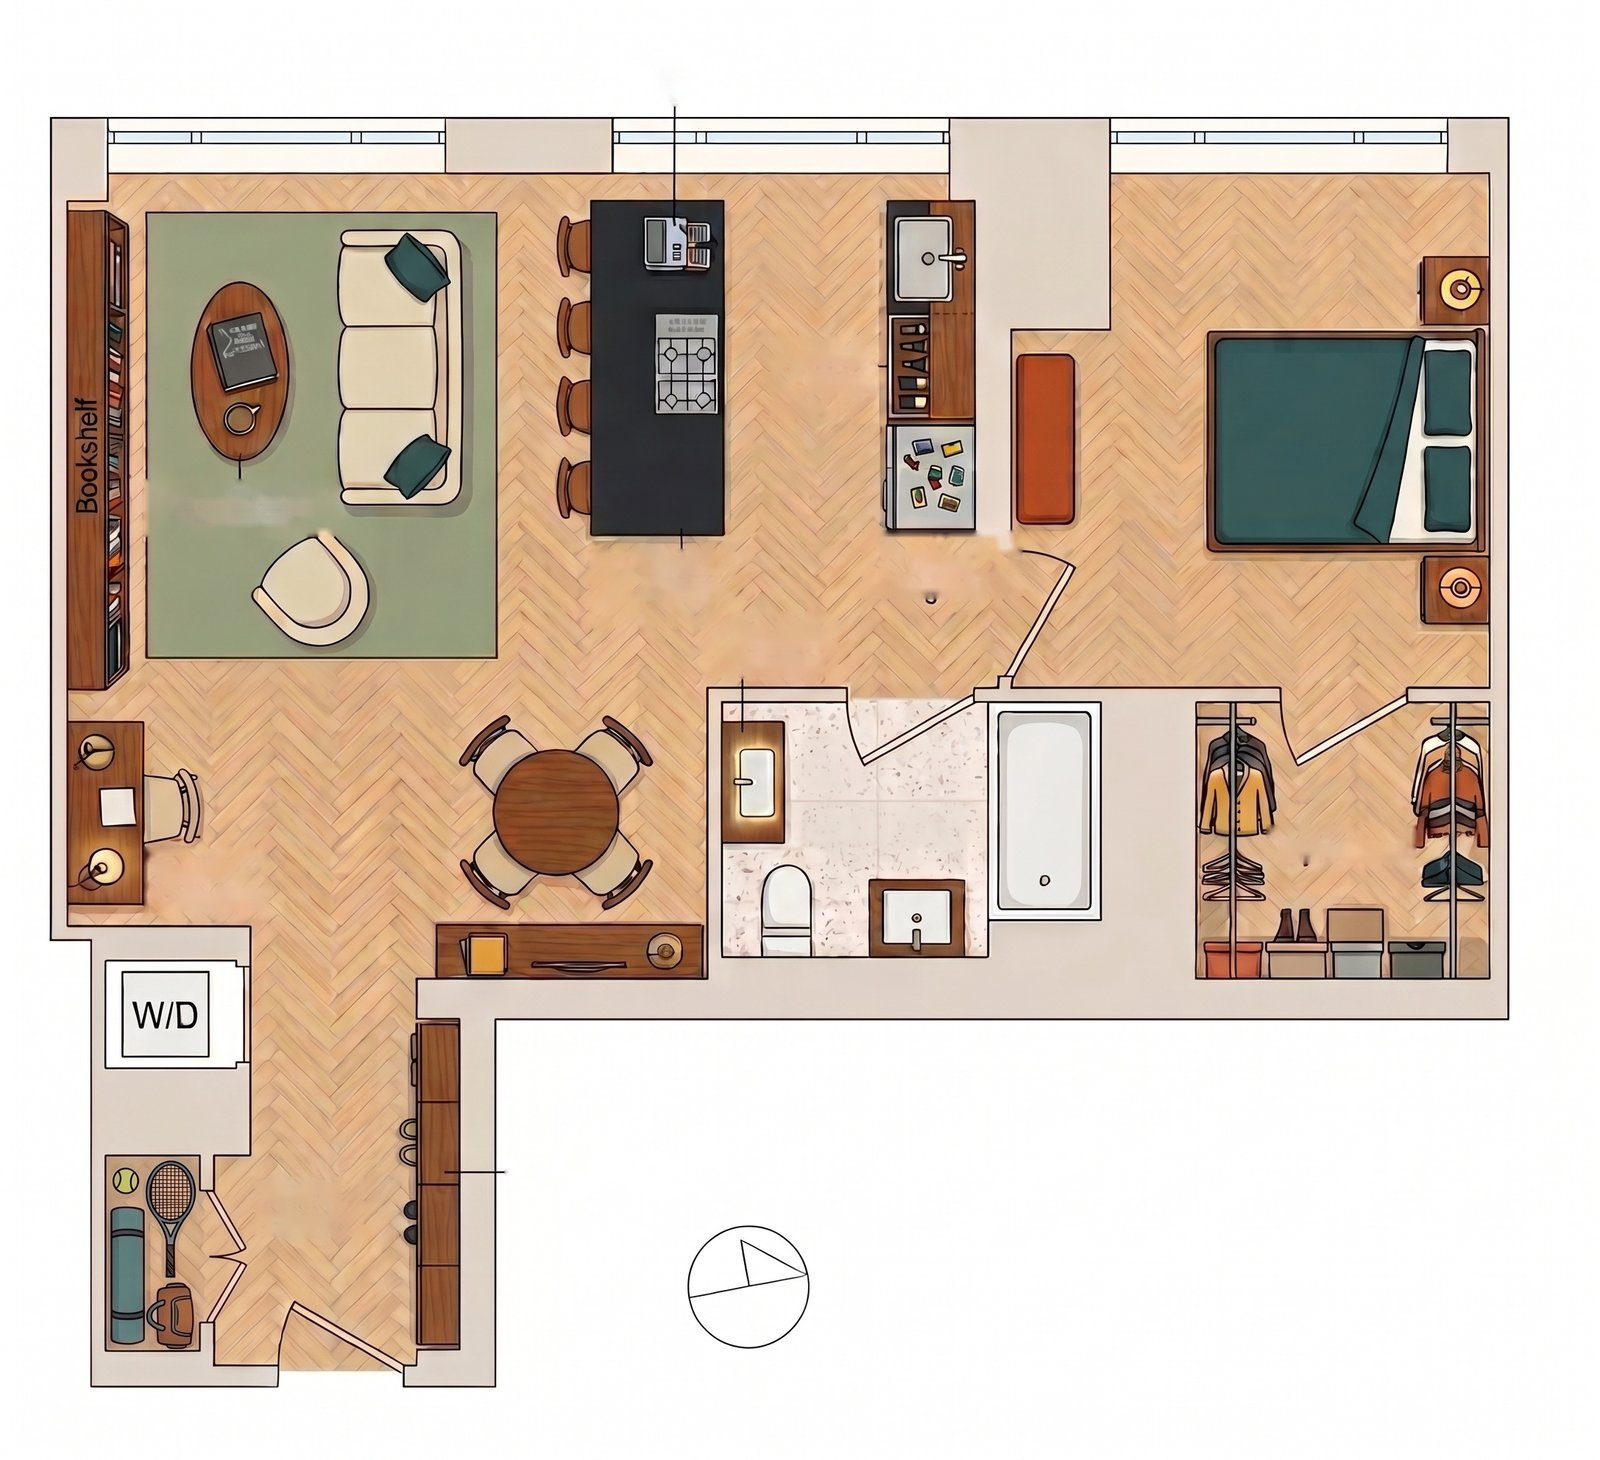
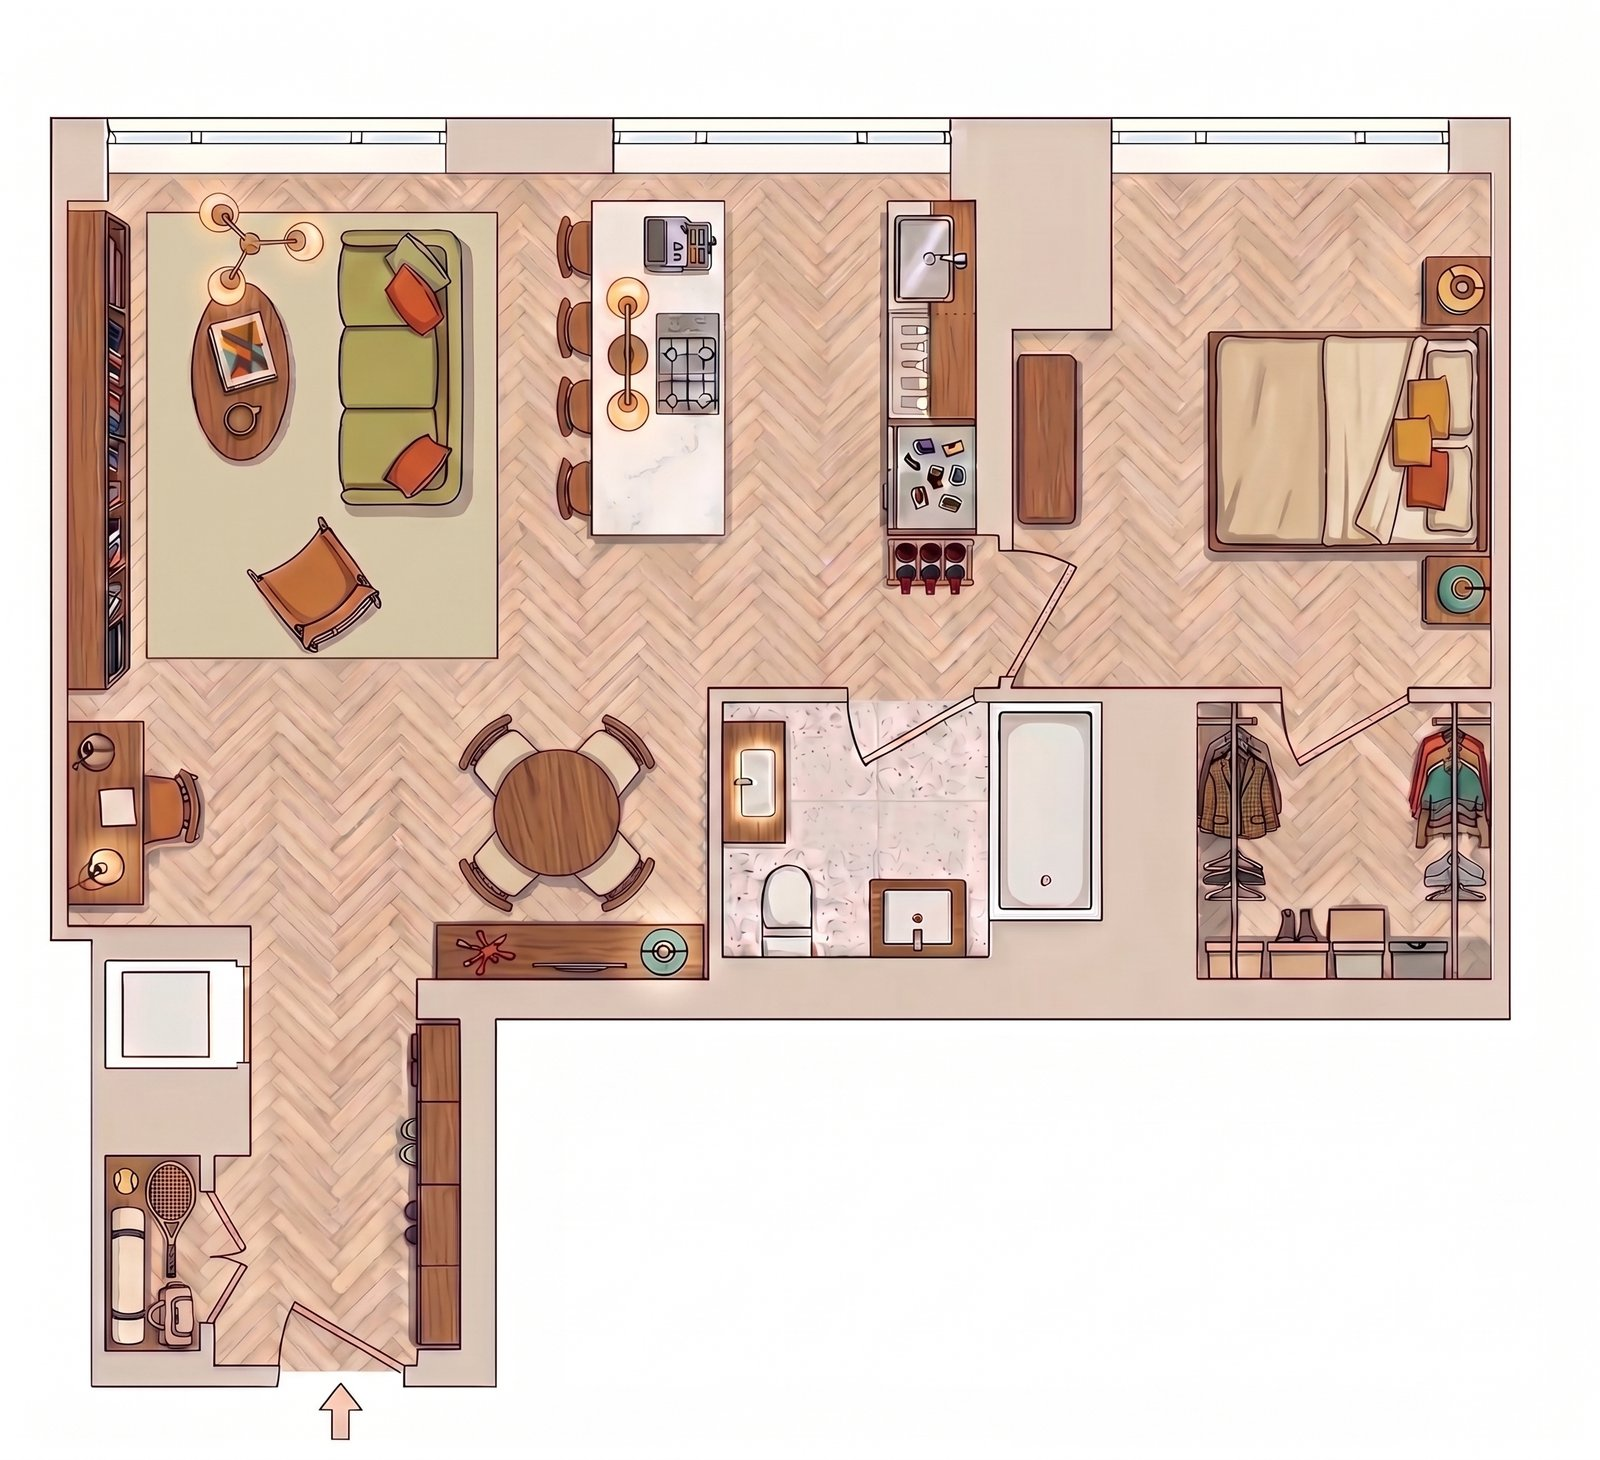
v2 preview: swap to new unlabeled floor plan illustration
New image has no text at all. Hotspot anchors re-measured against the
actual furniture icons (positions shifted slightly from the prior
render, e.g. espresso machine, wine rack, vanity).

diff --git a/src/components/FloorPlanLanding.tsx b/src/components/FloorPlanLanding.tsx
@@ -10,15 +10,15 @@ interface Hotspot {
   details: string;
 }
 
-// Positions are percentages matching label locations in
-// /public/floorplan-illustrated.jpg (2174x1984, illustrated apartment with
-// labels removed -- anchors sit exactly where the text used to be).
-// Re-measure if you swap the image.
+// Positions are percentages anchored to the actual furniture icons in
+// /public/floorplan-illustrated.jpg (2174x1984, unlabeled illustration).
+// Re-measure if you swap the image -- icon positions shift between
+// image generations even at the same aspect ratio.
 const HOTSPOTS: Hotspot[] = [
   {
     id: 'espresso',
     title: 'Espresso Machine',
-    top: '4.3%',
+    top: '16.7%',
     left: '42.5%',
     category: 'Kitchen',
     details: 'Current Favorite Beans: Ethiopian Yirgacheffe (Light Roast) for bright fruit notes.',
@@ -26,15 +26,15 @@ const HOTSPOTS: Hotspot[] = [
   {
     id: 'bookshelf',
     title: 'Bookshelf',
-    top: '29.2%',
-    left: '4.4%',
+    top: '27.4%',
+    left: '6.0%',
     category: 'Living Room',
     details: 'Top reads on rotation -- placeholder, swap in your real favorites.',
   },
   {
     id: 'favorite-artists',
     title: 'Favorite Artists Collection',
-    top: '34.8%',
+    top: '23.6%',
     left: '15.0%',
     category: 'Living Room',
     details: 'A coffee table book of favorite artists -- placeholder, add yours.',
@@ -42,64 +42,64 @@ const HOTSPOTS: Hotspot[] = [
   {
     id: 'snack-pantry',
     title: 'Snack Pantry',
-    top: '40.3%',
-    left: '41.4%',
+    top: '32.9%',
+    left: '39.5%',
     category: 'Kitchen',
     details: 'Go-to snacks -- placeholder, swap for your real favorites.',
   },
   {
     id: 'wine-fridge',
     title: 'Wine Fridge',
-    top: '25.8%',
-    left: '51.4%',
+    top: '39.2%',
+    left: '58.0%',
     category: 'Kitchen',
     details: 'A few bottles always on hand -- placeholder wine picks.',
   },
   {
     id: 'travel-magnets',
     title: 'Travel Magnets',
-    top: '38.7%',
-    left: '58.9%',
+    top: '32.6%',
+    left: '58.0%',
     category: 'Kitchen',
     details: 'Recent travels: Tokyo, Kyoto, Copenhagen, Mexico City.',
   },
   {
     id: 'skincare-routine',
     title: 'Skincare Routine',
-    top: '44.2%',
-    left: '48.1%',
+    top: '54.5%',
+    left: '47.3%',
     category: 'Bathroom',
     details: 'Daily Routine: Gentle Cleanser, Vitamin C Serum, Hyaluronic Acid, SPF 50.',
   },
   {
     id: 'book-collection',
     title: 'Book Collection',
-    top: '60.3%',
-    left: '12.9%',
+    top: '55.3%',
+    left: '6.0%',
     category: 'Living Room',
     details: 'A small personal library at the desk -- placeholder, add your books.',
   },
   {
     id: 'style-closet',
     title: 'Style Closet',
-    top: '57.8%',
-    left: '83.8%',
+    top: '56.4%',
+    left: '85.0%',
     category: 'Bedroom',
     details: 'Signature pieces and go-to silhouettes -- placeholder style notes.',
   },
   {
     id: 'sports-closet',
     title: 'Sports Closet',
-    top: '82.7%',
-    left: '19.3%',
+    top: '78.9%',
+    left: '9.0%',
     category: 'Entry',
     details: 'Gear for staying active -- placeholder.',
   },
   {
     id: 'shoe-closet',
     title: 'Shoe Closet',
-    top: '80.2%',
-    left: '37.3%',
+    top: '71.2%',
+    left: '27.0%',
     category: 'Entry',
     details: 'Favorite pairs, by rotation -- placeholder.',
   },
